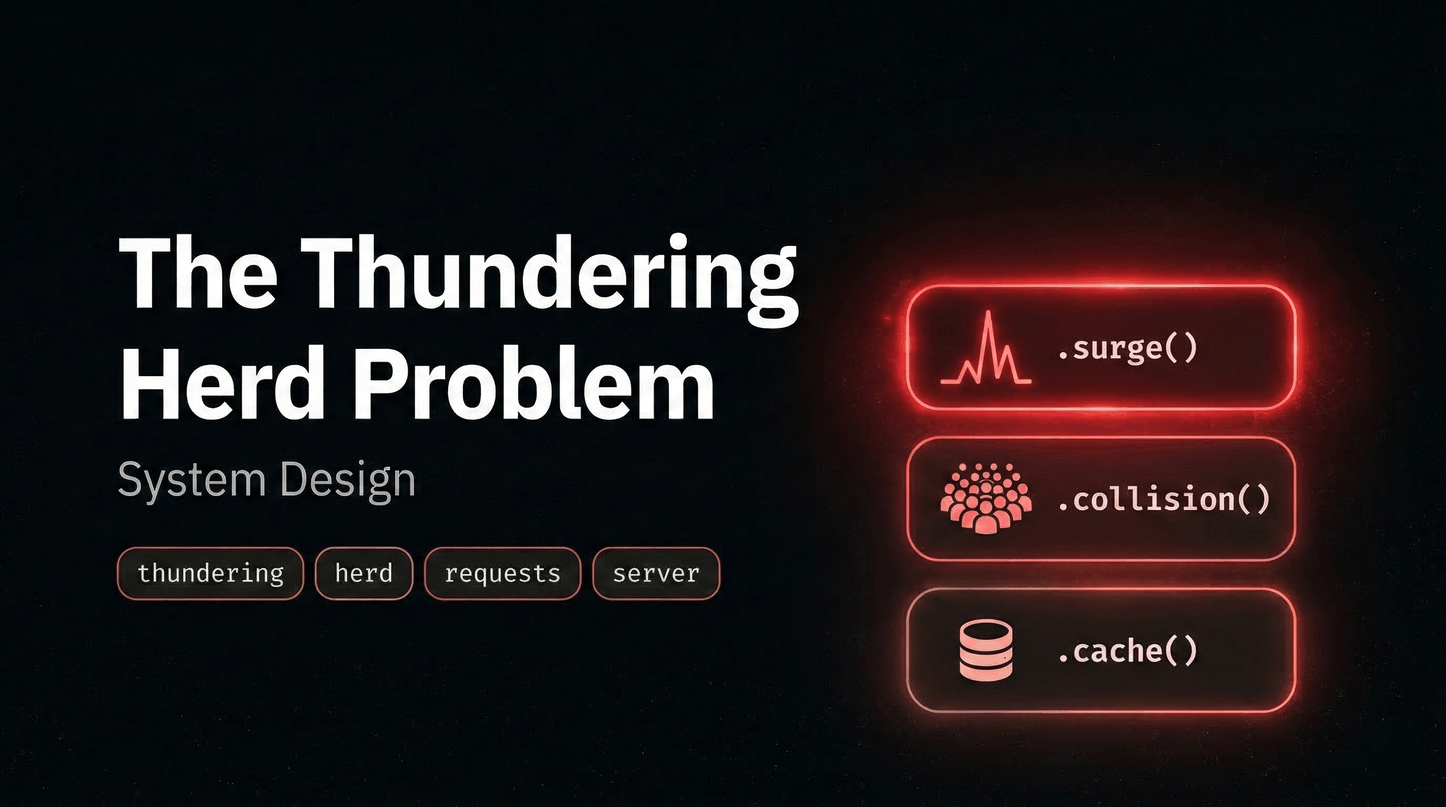
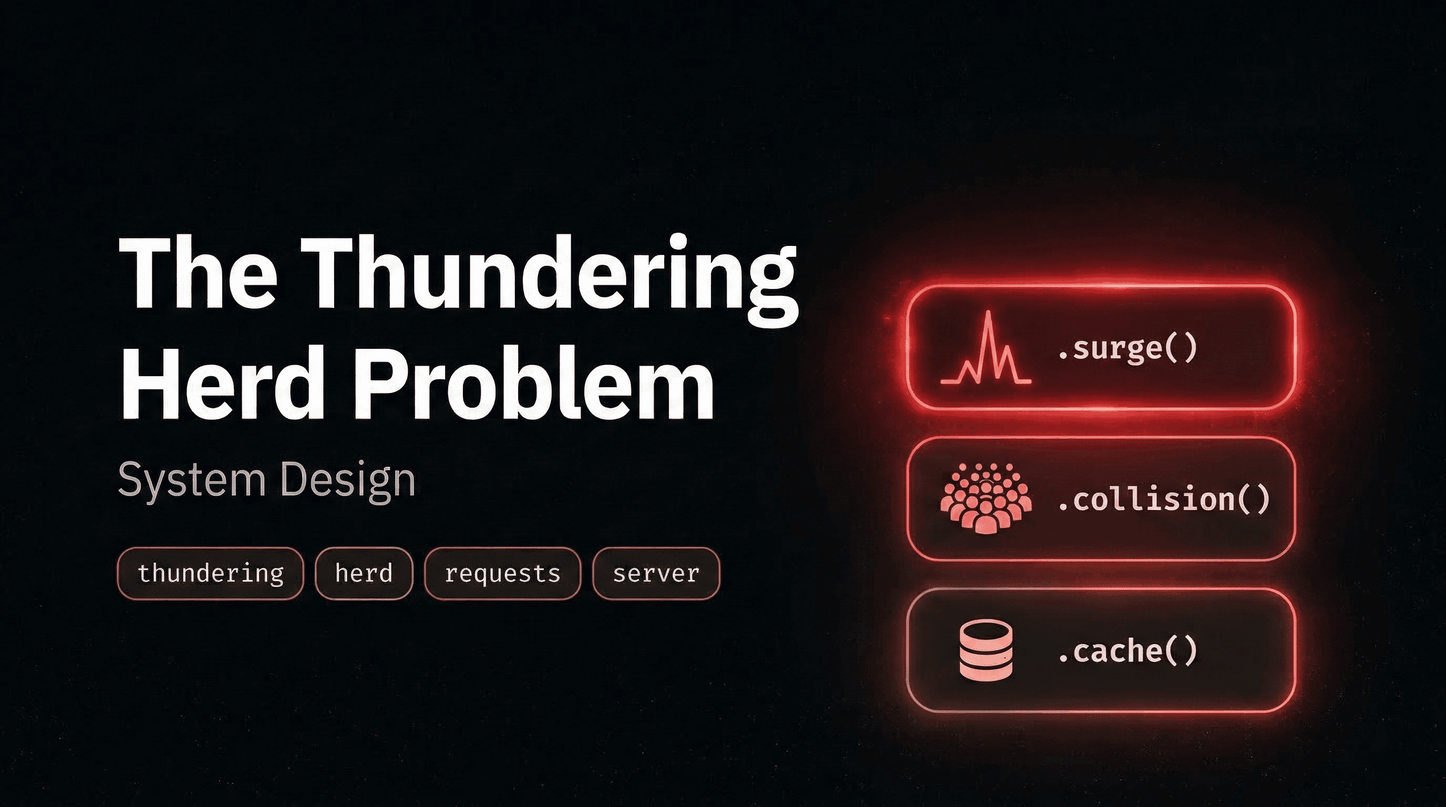
changes to blog images & assignment numbering

Changed region(s): [[0.75, 0.7188, 0.8125, 0.75], [0.6875, 0.5, 0.75, 0.5312], [0.7812, 0.5, 0.8125, 0.5312]]

diff --git a/README.md b/README.md
@@ -8,23 +8,23 @@ This repository is the central "Source of Truth" for my journey through the Chai
 
 ## 🗺 Learning Roadmap
 
-| Class  |  Date  |                    Topic                    |                                   📝 Summary Notes                                   |          📚 Assignments           |          ✍ Blog Posts           |
-| :----: | :----: | :-----------------------------------------: | :----------------------------------------------------------------------------------: | :-------------------------------: | :------------------------------: |
-| **00** | 23 Feb |          Application Layer Scaling          | [View](https://sameerbhagtani.notion.site/Class-00-3188385da6f88006bf53ce07be07d137) |                 -                 | [View](./blog-posts/class-00.md) |
-| **01** | 25 Feb |             Data Layer Scaling              | [View](https://sameerbhagtani.notion.site/Class-01-3188385da6f880bdb640e84d642734c6) |                 -                 |                -                 |
-| **02** | 02 Mar |    Monolith & Microservices Architecture    | [View](https://sameerbhagtani.notion.site/Class-02-3188385da6f880d19ddfd2671845d655) |                 -                 |                -                 |
-| **03** | 09 Mar |           Async. Architecture - 1           | [View](https://sameerbhagtani.notion.site/Class-03-3268385da6f880a499e5d4cd76cd8252) | [View](./assignments/class-04.md) |                -                 |
-| **04** | 11 Mar |           Async. Architecture - 2           | [View](https://sameerbhagtani.notion.site/Class-04-3268385da6f880849fe8c98fa6573783) |                 -                 | [View](./blog-posts/class-04.md) |
-| **05** | 16 Mar |                    CQRS                     | [View](https://sameerbhagtani.notion.site/Class-05-3268385da6f880b6870bf02c753deb0d) |                 -                 |                -                 |
-| **06** | 18 Mar | Caching, Consistent Hashing & Intro. to AWS | [View](https://sameerbhagtani.notion.site/Class-06-3268385da6f8804cb86deb4e87b870d1) |                 -                 |                -                 |
-| **07** | 23 Mar |            Real-Time Systems - 1            | [View](https://sameerbhagtani.notion.site/Class-07-32c8385da6f880ceb7a0de74e4cb8813) |                 -                 |                -                 |
-| **08** | 25 Mar |            Real-Time Systems - 2            | [View](https://sameerbhagtani.notion.site/Class-08-32c8385da6f88052b7abda9892ad21ca) |                 -                 |                -                 |
-| **09** | 30 Mar |       Cloud Native System Design - 1        | [View](https://sameerbhagtani.notion.site/Class-09-3338385da6f8808b84dbd5781f73f5fa) |                 -                 |                -                 |
-| **10** | 01 Apr |       Cloud Native System Design - 2        | [View](https://sameerbhagtani.notion.site/Class-10-3338385da6f8806dbbe3eb6e02dfab83) |                 -                 |                -                 |
-| **11** | 06 Apr |             Database Internals              | [View](https://sameerbhagtani.notion.site/Class-11-34a8385da6f880049916e4591b85418f) |                 -                 |                -                 |
-| **12** | 08 Apr |       Architecting AI Powered Systems       | [View](https://sameerbhagtani.notion.site/Class-12-34a8385da6f880308e65e006aca9551f) |                 -                 |                -                 |
-| **13** | 13 Apr |           Cracking Interviews - 1           | [View](https://sameerbhagtani.notion.site/Class-13-34a8385da6f880ababfecfb1fc3d2f73) |                 -                 |                -                 |
-| **14** | 15 Apr |           Cracking Interviews - 2           | [View](https://sameerbhagtani.notion.site/Class-14-34a8385da6f88050a9c9fb7302396831) |                 -                 |                -                 |
+| Class  |  Date  |                 Topic                 |                                   📝 Summary Notes                                   |          📚 Assignments           |          ✍ Blog Posts           |
+| :----: | :----: | :-----------------------------------: | :----------------------------------------------------------------------------------: | :-------------------------------: | :------------------------------: |
+| **00** | 23 Feb |       Application Layer Scaling       | [View](https://sameerbhagtani.notion.site/Class-00-3188385da6f88006bf53ce07be07d137) |                 -                 | [View](./blog-posts/class-00.md) |
+| **01** | 25 Feb |          Data Layer Scaling           | [View](https://sameerbhagtani.notion.site/Class-01-3188385da6f880bdb640e84d642734c6) |                 -                 |                -                 |
+| **02** | 02 Mar | Monolith & Microservices Architecture | [View](https://sameerbhagtani.notion.site/Class-02-3188385da6f880d19ddfd2671845d655) |                 -                 |                -                 |
+| **03** | 09 Mar |        Async. Architecture - 1        | [View](https://sameerbhagtani.notion.site/Class-03-3268385da6f880a499e5d4cd76cd8252) | [View](./assignments/class-03.md) |                -                 |
+| **04** | 11 Mar |        Async. Architecture - 2        | [View](https://sameerbhagtani.notion.site/Class-04-3268385da6f880849fe8c98fa6573783) |                 -                 | [View](./blog-posts/class-04.md) |
+| **05** | 16 Mar |                 CQRS                  | [View](https://sameerbhagtani.notion.site/Class-05-3268385da6f880b6870bf02c753deb0d) |                 -                 |                -                 |
+| **06** | 18 Mar |     Caching & Consistent Hashing      | [View](https://sameerbhagtani.notion.site/Class-06-3268385da6f8804cb86deb4e87b870d1) |                 -                 |                -                 |
+| **07** | 23 Mar |         Real-Time Systems - 1         | [View](https://sameerbhagtani.notion.site/Class-07-32c8385da6f880ceb7a0de74e4cb8813) |                 -                 |                -                 |
+| **08** | 25 Mar |         Real-Time Systems - 2         | [View](https://sameerbhagtani.notion.site/Class-08-32c8385da6f88052b7abda9892ad21ca) |                 -                 |                -                 |
+| **09** | 30 Mar |    Cloud Native System Design - 1     | [View](https://sameerbhagtani.notion.site/Class-09-3338385da6f8808b84dbd5781f73f5fa) |                 -                 |                -                 |
+| **10** | 01 Apr |    Cloud Native System Design - 2     | [View](https://sameerbhagtani.notion.site/Class-10-3338385da6f8806dbbe3eb6e02dfab83) |                 -                 |                -                 |
+| **11** | 06 Apr |          Database Internals           | [View](https://sameerbhagtani.notion.site/Class-11-34a8385da6f880049916e4591b85418f) |                 -                 |                -                 |
+| **12** | 08 Apr |          AI Powered Systems           | [View](https://sameerbhagtani.notion.site/Class-12-34a8385da6f880308e65e006aca9551f) |                 -                 |                -                 |
+| **13** | 13 Apr |        Cracking Interviews - 1        | [View](https://sameerbhagtani.notion.site/Class-13-34a8385da6f880ababfecfb1fc3d2f73) |                 -                 |                -                 |
+| **14** | 15 Apr |        Cracking Interviews - 2        | [View](https://sameerbhagtani.notion.site/Class-14-34a8385da6f88050a9c9fb7302396831) |                 -                 |                -                 |
 
 ---
 

diff --git a/blog-posts/class-04.md b/blog-posts/class-04.md
@@ -1,6 +1,9 @@
 # ✍ Class 04: Blog Posts
 
-_Work in Progress..._
+## 0. Kafka Explained Like You’re 5
+
+![Cover Image](./assets/2.png)
+👉 **[Read on Hashnode](https://blog.sameerbhagtani.dev/kafka-explained-like-youre-5)**
 
 ---
 

diff --git a/assignments/class-03.md b/assignments/class-03.md
@@ -1,4 +1,4 @@
-# 📚 Class 04: Assignments
+# 📚 Class 03: Assignments
 
 ## 0. LeetCode System Design Video
 
